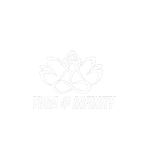
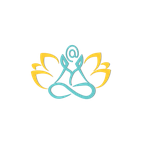
Final production polish and responsive fixes

Changed region(s): [[0.1944, 0.3056, 0.7778, 0.6944]]

diff --git a/clean_png.py b/clean_png.py
@@ -1,0 +1,22 @@
+from PIL import Image
+
+def create_transparent_logo(input_path, out_png, out_icon, color=(13, 148, 136)):
+    # Read the grayscale image
+    l_img = Image.open(input_path).convert("L")
+    
+    # Create a new RGBA image with Teal color
+    rgba_img = Image.new("RGBA", l_img.size, color + (255,))
+    
+    # Put the grayscale image as the alpha channel
+    rgba_img.putalpha(l_img)
+    
+    # Save it as public/logo.png
+    rgba_img.save(out_png, "PNG")
+    print(f"Generated {out_png} with color {color}")
+    
+    # Create 144x144 icon
+    icon_img = rgba_img.resize((144, 144), Image.LANCZOS)
+    icon_img.save(out_icon, "PNG")
+    print(f"Generated {out_icon}")
+
+create_transparent_logo('public/logo_extracted.png', 'public/logo.png', 'src/app/icon.png', color=(13, 148, 136))

diff --git a/inspect_logo.py b/inspect_logo.py
@@ -1,0 +1,26 @@
+import base64
+import json
+from PIL import Image
+
+def analyze_icon_svg():
+    with open('src/app/icon.svg', 'r') as f:
+        content = f.read()
+
+    # Extract base64
+    if "base64," in content:
+        b64_str = content.split("base64,")[1].split('"')[0]
+        with open('temp_icon.png', 'wb') as out:
+            out.write(base64.b64decode(b64_str))
+        
+        img = Image.open('temp_icon.png').convert("RGBA")
+        colors = img.getcolors(maxcolors=1000000)
+        # Find the most common colors
+        colors = sorted(colors, key=lambda x: x[0], reverse=True)
+        print("Top colors (count, (R,G,B,A)):")
+        for count, color in colors[:10]:
+            print(f"{count}: {color}")
+        
+    else:
+        print("No base64 found")
+
+analyze_icon_svg()

diff --git a/save_original.py b/save_original.py
@@ -1,0 +1,13 @@
+from PIL import Image
+
+# Read the extracted image
+img = Image.open('temp_icon.png')
+
+# Save it as public/logo.png
+img.save('public/logo.png', "PNG")
+print("Saved public/logo.png")
+
+# Create 144x144 icon
+icon_img = img.resize((144, 144), Image.LANCZOS)
+icon_img.save('src/app/icon.png', "PNG")
+print("Saved src/app/icon.png")
